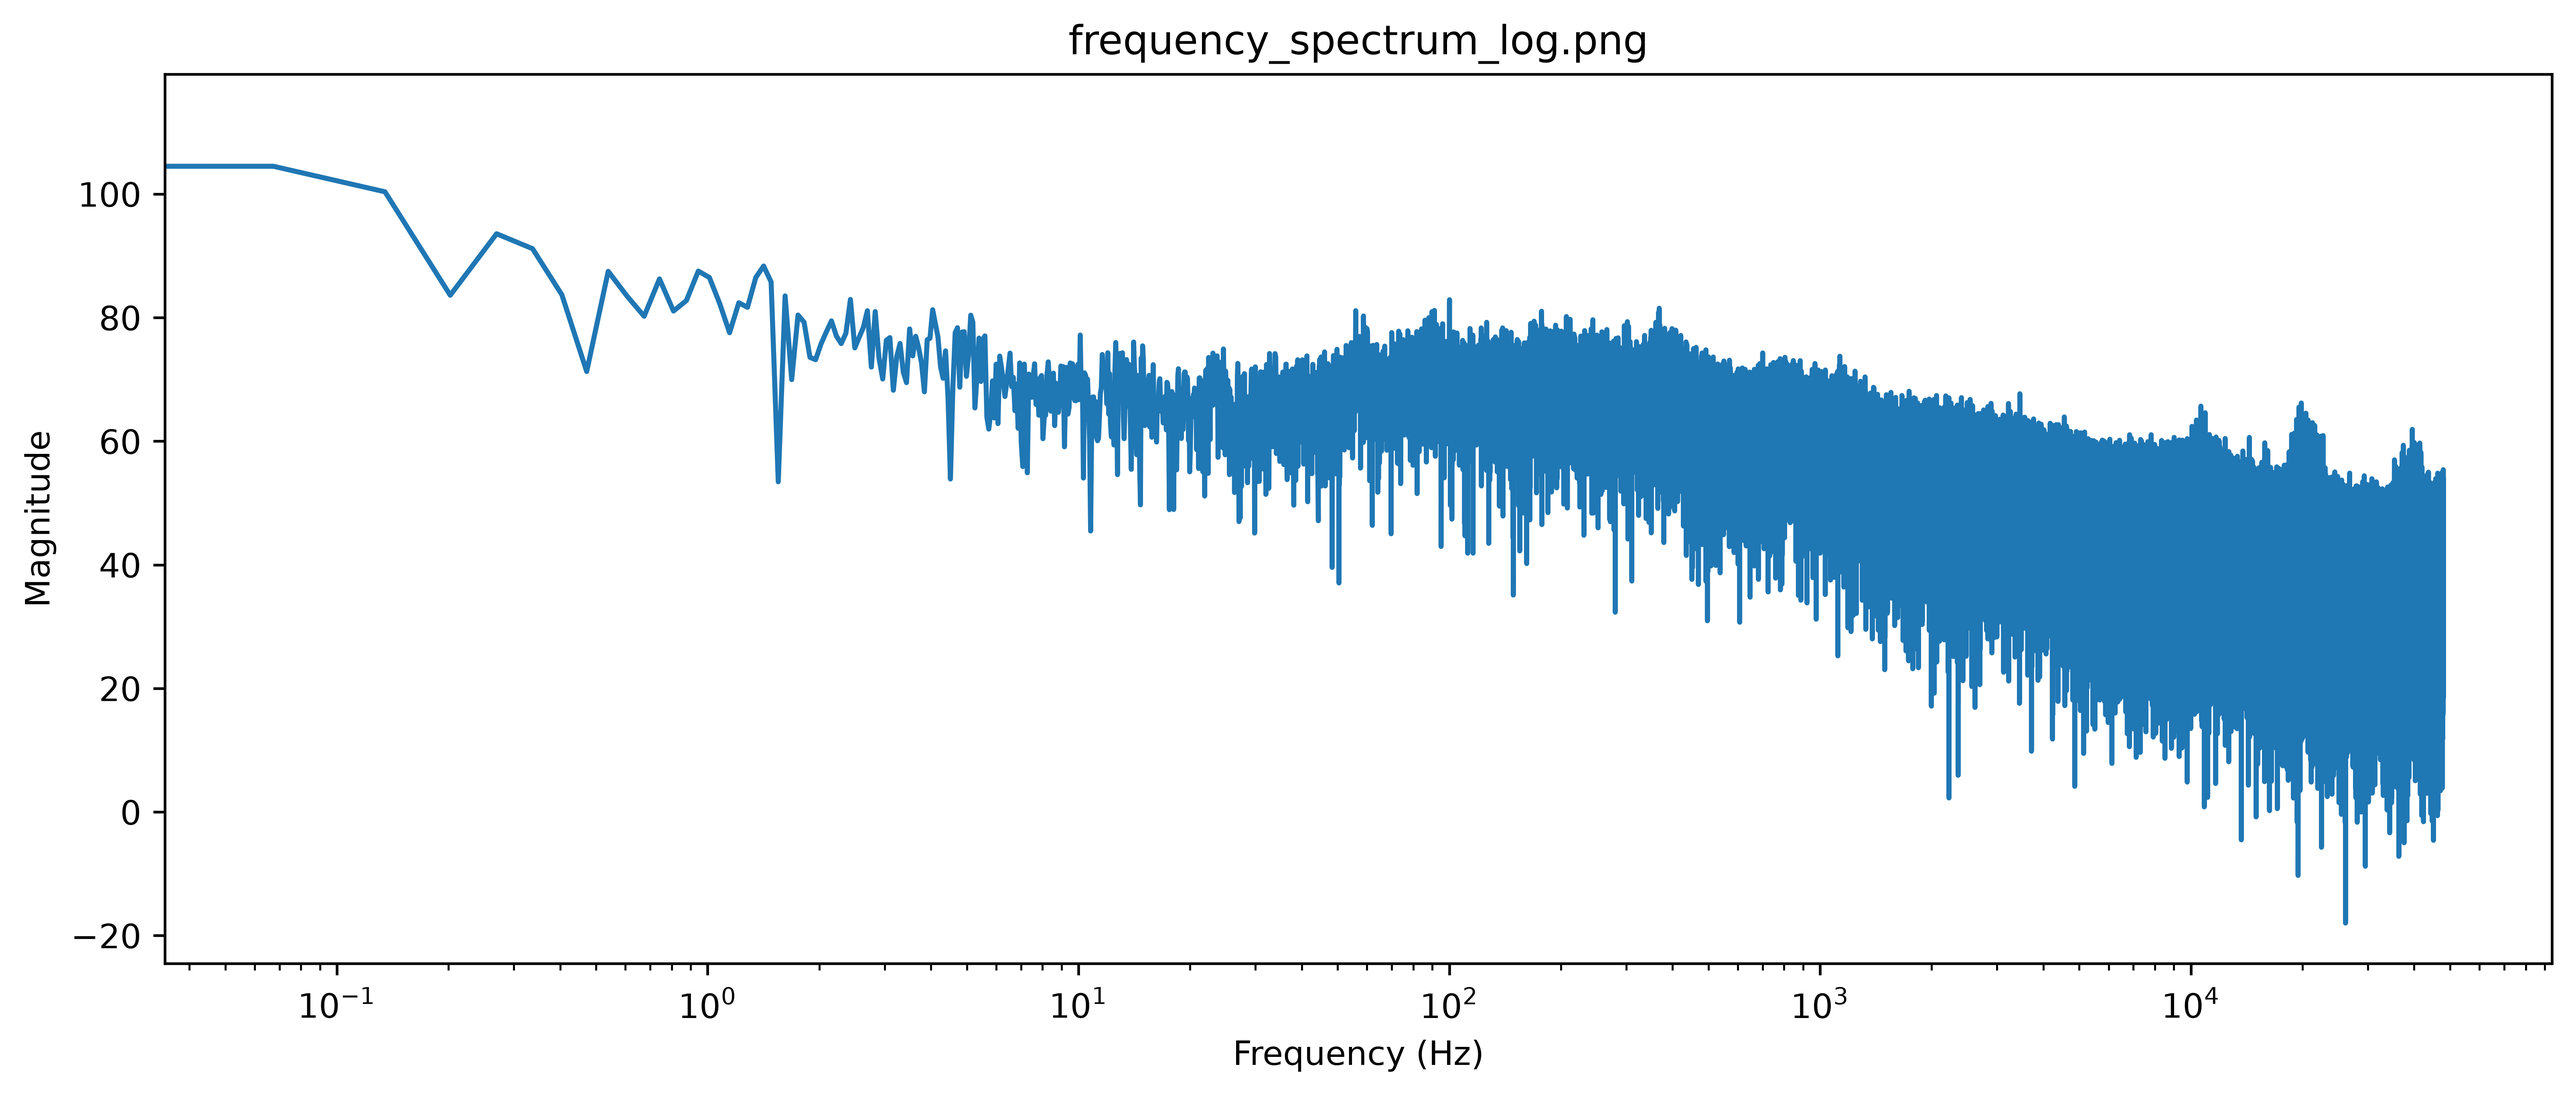
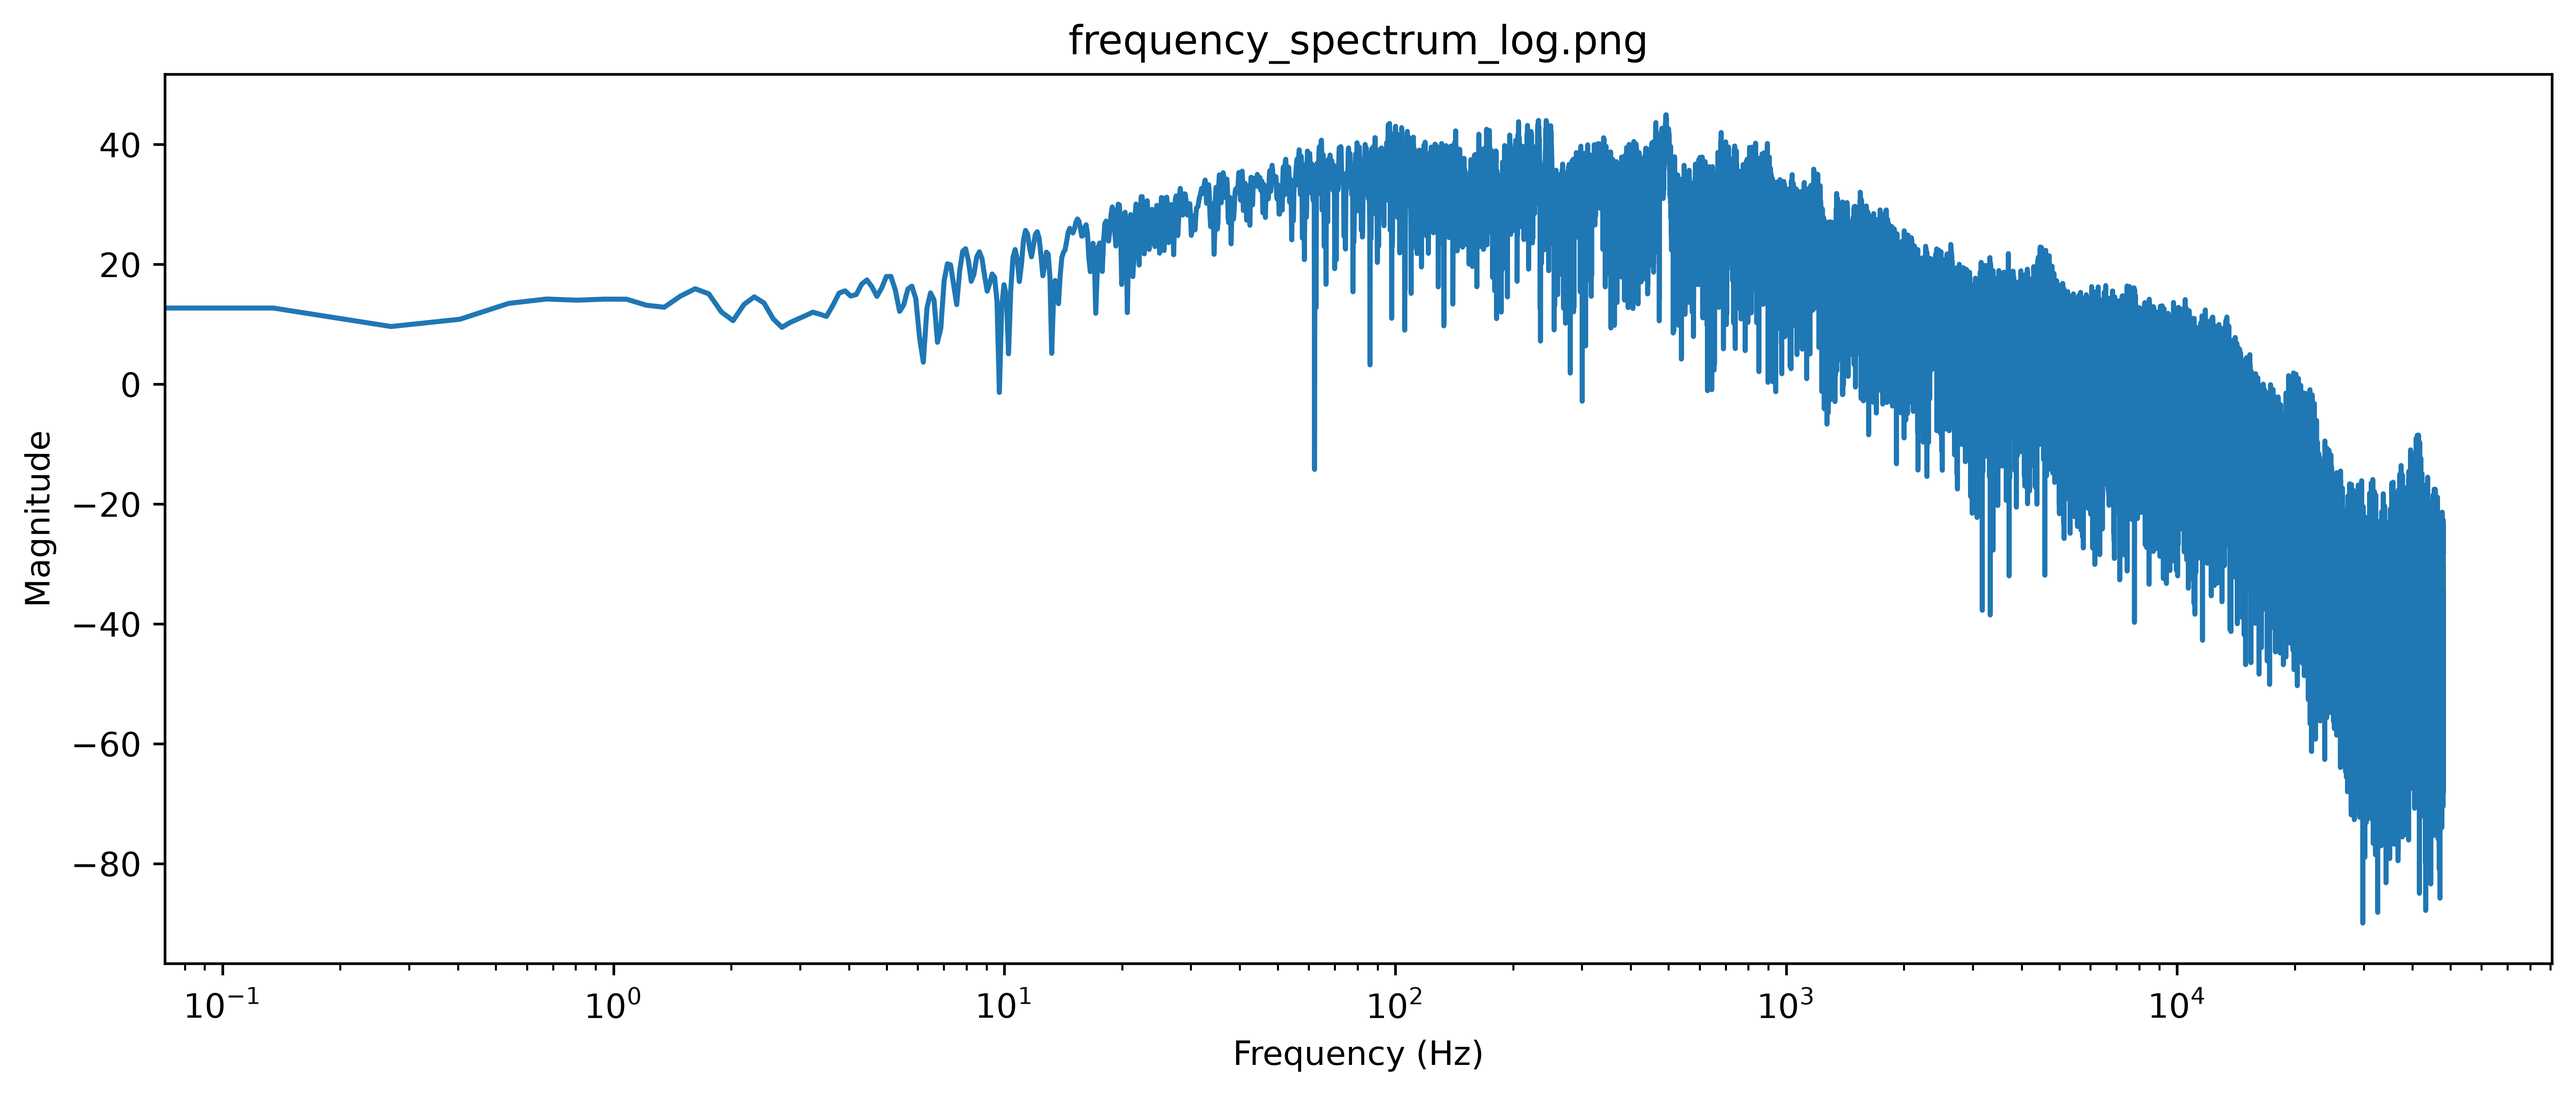
JM - correct bracket in plotting argument

diff --git a/fft.py b/fft.py
@@ -53,7 +53,7 @@ sample_rate_5cm, data_5cm, time_5cm = read_wav_file("Untitled.wav")
 plot_time_spectrum(time_5cm, data_5cm, 'time_spectrum.png')
 plot_frequency_spectrum(data_5cm[:len(data_5cm) // 2], sample_rate_5cm, "frequency_spectrum.png")
 plot_frequency_spectrum(data_5cm*np.hamming(len(data_5cm)), sample_rate_5cm, "frequency_spectrum_hamming.png")
-plot_frequency_spectrum_log(data_5cm[:len(data_5cm)] // 2, sample_rate_5cm, "frequency_spectrum_log.png")
+plot_frequency_spectrum_log(data_5cm[:len(data_5cm) // 2], sample_rate_5cm, "frequency_spectrum_log.png")
 plot_frequency_spectrum_log(data_5cm*np.hamming(len(data_5cm)), sample_rate_5cm, "frequency_spectrum_hamming_log.png")
 
 # TODO write a function to automate the creation of frequency plots
